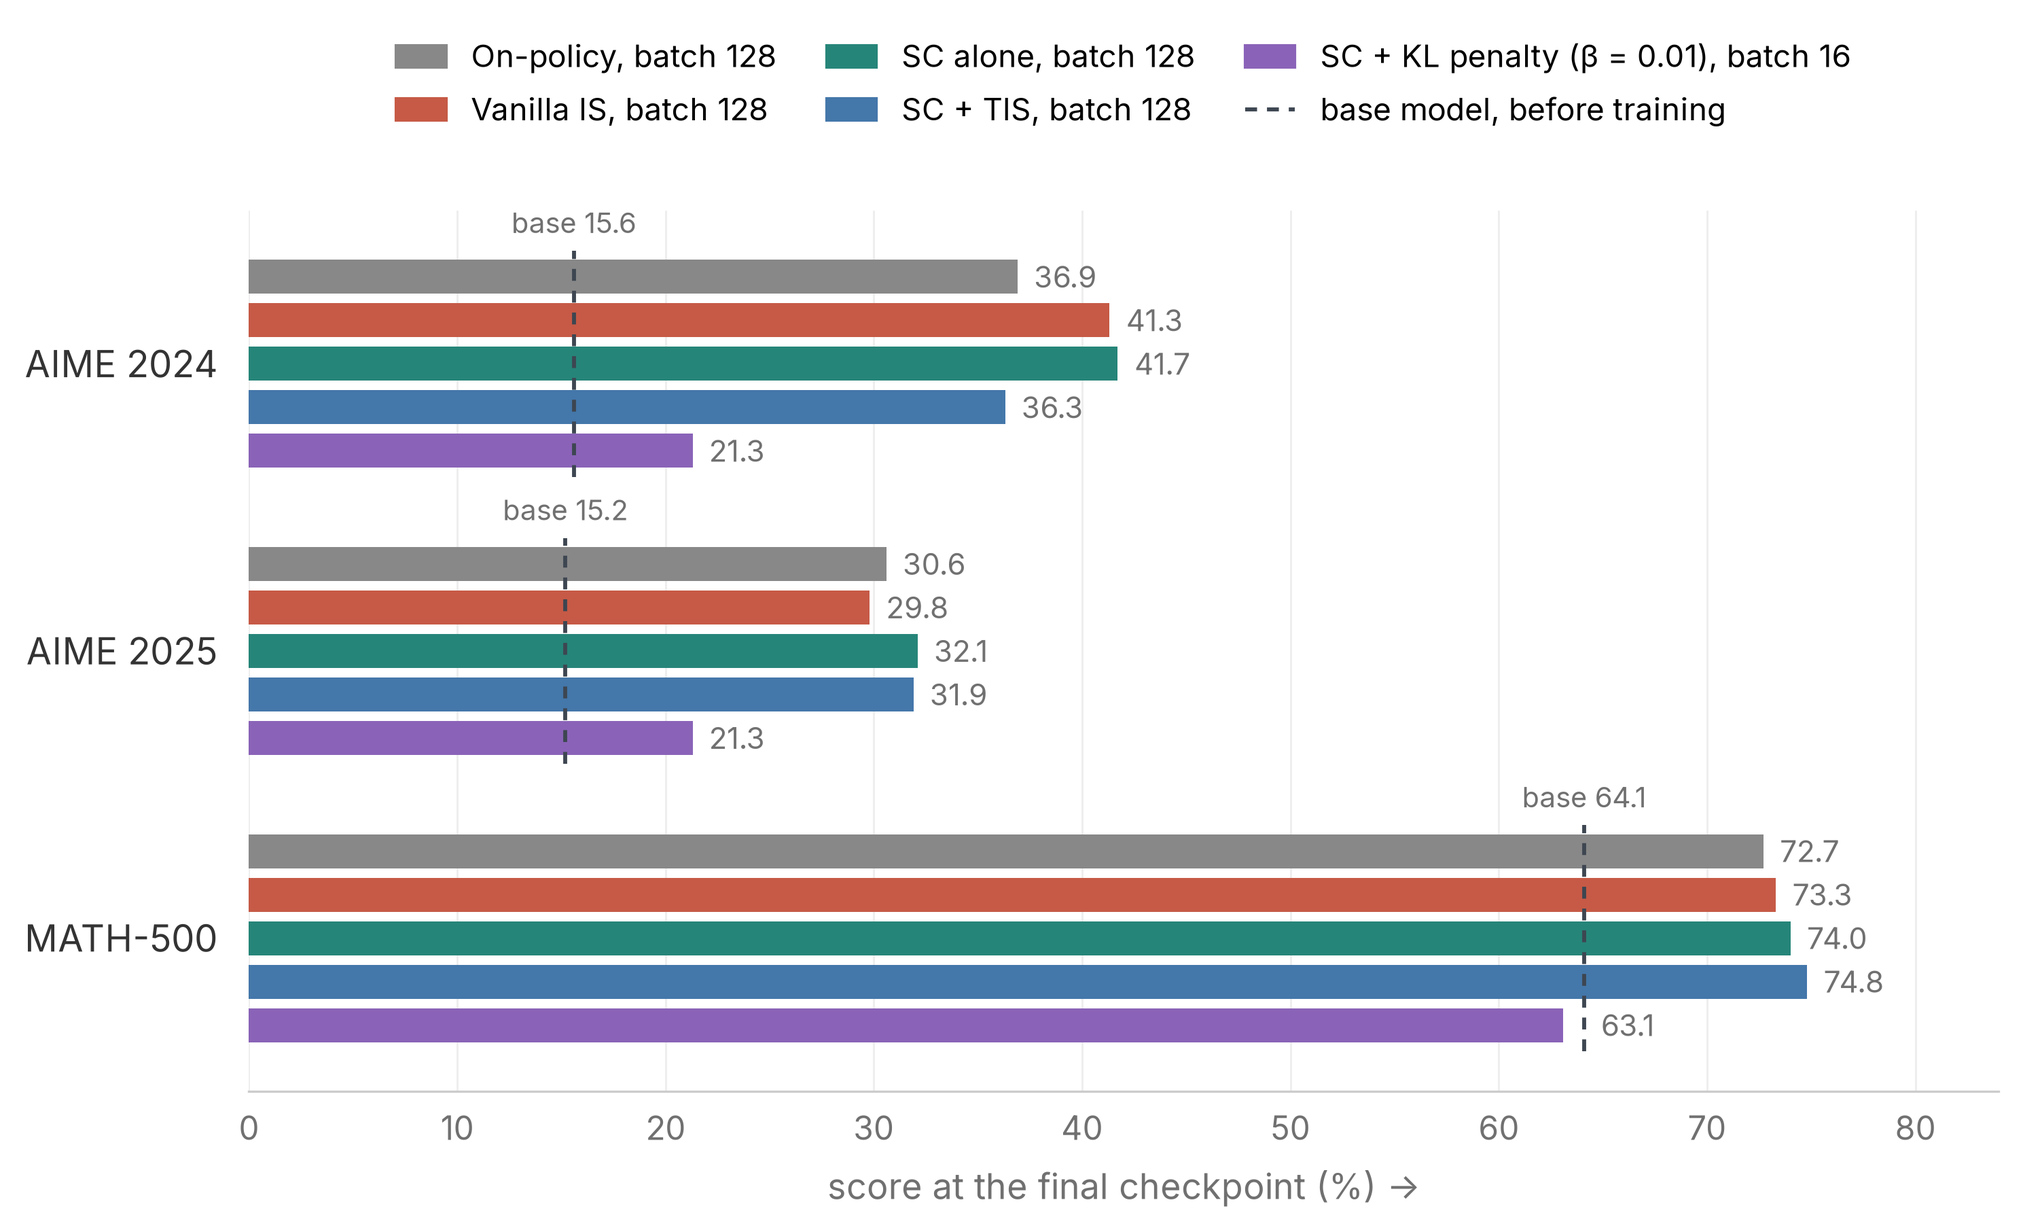
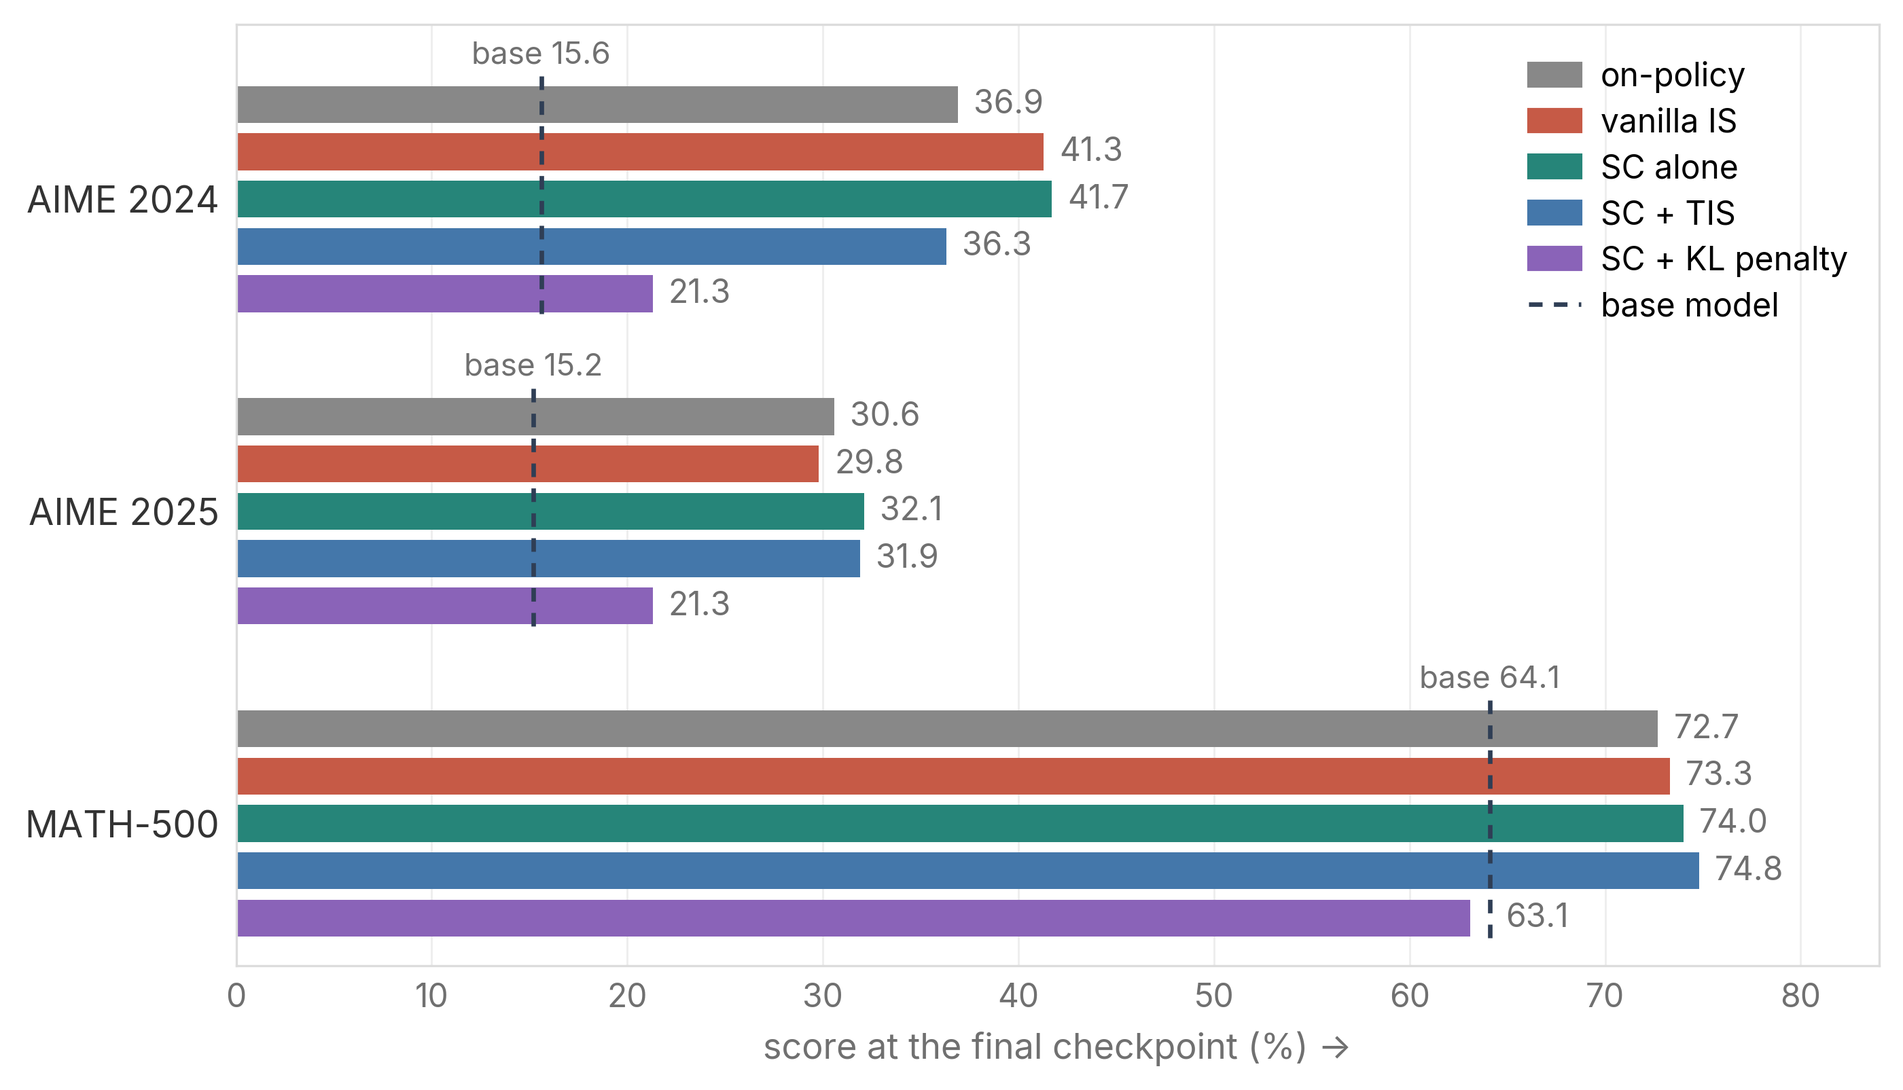
sc-drift-and-distance: Figures 5-16 redrawn in one style, captions simplified

diff --git a/sc-drift-and-distance/index.html b/sc-drift-and-distance/index.html
@@ -182,7 +182,7 @@ html[data-theme=dark] .body figure img{filter:invert(.92) hue-rotate(180deg)}
 </details>
 <h3 id="sec-2-2">2.2 Large batches: SC alone keeps up with on-policy training</h3>
 <p>Batch 64 was small enough for vanilla IS to collapse. We now raise the batch to 512 at the same staleness and ask whether that keeps all three methods stable (<a class="figref" href="#fig-5">Figure 5</a>).</p>
-<figure id="fig-5"><img src="figs/fig05_batch64_vs_512_v3.png?v=003f17c372" alt="Figure 5"><figcaption><b>Figure 5. Vanilla IS, SC alone, and SC + TIS at batch 64 and batch 512.</b> 0.8B on GSM8K, staleness 15. Left two panels: training reward. Batch 512 sees 8× more samples, so we compare stability only. Right: median of each mini-batch's largest ratio \(p/q\), grouped by its KL to the sampler.</figcaption></figure>
+<figure id="fig-5"><img src="figs/fig05_batch64_vs_512_v3.png?v=b52d30802d" alt="Figure 5"><figcaption><b>Figure 5. Vanilla IS, SC alone, and SC + TIS at batch 64 and batch 512.</b> 0.8B on GSM8K, staleness 15. Left two panels: training reward. Right: median of each mini-batch's largest ratio \(p/q\), grouped by its KL to the sampler.</figcaption></figure>
 <p>The left two panels of <a class="figref" href="#fig-5">Figure 5</a> show that a larger batch stabilizes all three methods. At batch 512, they all keep up with on-policy to the end, while at batch 64 the curves are noisy and vanilla IS collapses. The next subsection shows the same pattern on 4B at batch 128.</p>
 <p>The larger batch works by shrinking the distance. With less noise per step, the trainer does not move away from the sampler by chance. An 8× larger batch lowers the median KL about 8×, and truncation almost never triggers. <a class="secref" href="#sec-3">Section 3</a> explains why the drop is so close to 8×.</p>
 <p><a class="figref" href="#fig-6">Figure 6</a> shows that a larger batch helps only once drift is removed. Without correction, the KL runs away within the first rollout at batch 512 just as at batch 64. Drift pushes every step in the same direction, and a larger batch averages away only random noise. With SC, the KL stays small at both, and batch 512 ends the rollout at about half the KL of batch 64.</p>
@@ -191,10 +191,10 @@ html[data-theme=dark] .body figure img{filter:invert(.92) hue-rotate(180deg)}
 <p>Next we move to the opposite regime, with older data and smaller batches. Unlike vanilla IS, SC does not multiply the gradient by importance weights, so a single extreme weight cannot break it. It can still fail when the trainer moves far. We run SC alone at staleness 63 (64 mini-batches per rollout) with batches of 32, 64, and 512.</p>
 <figure id="fig-7"><img src="figs/fig07_sc_alone_staleness63_v4.png?v=30c6723eaf" alt="Figure 7"><figcaption><b>Figure 7. SC alone at three batch sizes.</b> 0.8B on GSM8K, staleness 63, batch 32, 64, and 512. Left: training reward. Right: the largest KL in each rollout (log scale).</figcaption></figure>
 <p>The left panel of <a class="figref" href="#fig-7">Figure 7</a> shows that SC alone keeps up with on-policy at batch 512 but breaks at smaller batches. Batch 32 collapses at step 448. Batch 64 trains to the end but finishes 14 points below its best, and a second batch-64 seed, not shown, collapses in its first rollout. In the right panel, the smaller the batch, the higher the largest KL in each rollout. We repeat the test on 4B with DAPO-Math-17k at staleness 15 and also compare the three methods.</p>
-<figure id="fig-8"><img src="figs/fig13_qwen4b_dapo.png?v=434394a213" alt="Figure 8"><figcaption><b>Figure 8. Vanilla IS, SC alone, and SC + TIS at batch 16 and batch 128.</b> 4B on DAPO-Math-17k, staleness 15, learning rate 0.033. Left: batch 16, where all three collapse. Purple: SC + KL penalty (<a class="secref" href="#sec-4-3">Section 4.3</a>). Right: batch 128, where all three keep up with on-policy.</figcaption></figure>
+<figure id="fig-8"><img src="figs/fig13_qwen4b_dapo.png?v=9494c23661" alt="Figure 8"><figcaption><b>Figure 8. Vanilla IS, SC alone, and SC + TIS at batch 16 and batch 128.</b> 4B on DAPO-Math-17k, staleness 15, learning rate 0.033. Left: batch 16. Purple: SC + KL penalty with β = 0.01 (<a class="secref" href="#sec-4-3">Section 4.3</a>). Right: batch 128. On-policy runs 160 steps.</figcaption></figure>
 <p>The 4B runs in <a class="figref" href="#fig-8">Figure 8</a> fail the same way at small batch. At batch 16, all three methods collapse, and each collapse starts with a sudden spike in the KL to the sampler. At batch 128, all three keep up with on-policy and roughly double the base model’s AIME scores. The differences among them are within sampling error (see the evaluation below). In both models, every failure comes with a large KL to the sampler, and a larger batch keeps that KL small. Why does the batch matter so much, and does it always help?</p>
 <details><summary>4B evaluation</summary>
-<figure id="fig-9"><img src="figs/fig08_4b_eval.png?v=1f5919d8a0" alt="Figure 9"><figcaption><b>Figure 9. Evaluation scores at the final checkpoint.</b> 4B on DAPO-Math-17k, staleness 15, batch 128 unless noted. Dashed lines: the base model. Each AIME score averages 16 samples per problem, with a sampling error of about 1.3 points. On-policy runs 160 steps and the others 320. The batch-16 runs without a KL penalty collapsed and are not evaluated.</figcaption></figure>
+<figure id="fig-9"><img src="figs/fig08_4b_eval.png?v=ce86ea0fb5" alt="Figure 9"><figcaption><b>Figure 9. Evaluation scores at the final checkpoint.</b> 4B on DAPO-Math-17k, staleness 15, batch 128 unless noted. SC + KL penalty: batch 16, β = 0.01. Each AIME score averages 16 samples per problem, with a sampling error of about 1.3 points. On-policy runs 160 steps and the others 320. The batch-16 runs without a KL penalty collapsed and are not evaluated.</figcaption></figure>
 </details>
 <h2 id="3-why-sc-fails-how-the-trainer-moves-away-from-t"><span id="sec-3"></span>3. Why SC fails: how the trainer moves away from the sampler</h2>
 <p>The answer is that the distance has two sources. Gradient noise moves the trainer in a random direction at each step, and a larger batch averages it away. The learning signal moves it in the same direction at every step, so on stale data it keeps adding up. This accumulation is simply the learning process at work, staying present at any batch size.</p>
@@ -212,13 +212,13 @@ html[data-theme=dark] .body figure img{filter:invert(.92) hue-rotate(180deg)}
 <table><thead><tr><th>Setting</th><th>Noise term</th><th>Signal term</th><th>Cost</th></tr></thead><tbody><tr><td>Larger batch \(B\)</td><td>✅ shrinks as \(1/B\)</td><td>❌ unchanged</td><td>more samples per step</td></tr><tr><td>Lower learning rate \(\eta\)</td><td>✅ shrinks as \(\eta^2\)</td><td>✅ shrinks as \(\eta^2\)</td><td>less learning per step</td></tr><tr><td>Less staleness \(k\)</td><td>✅ shrinks as \(k\)</td><td>✅ shrinks as \(k^2\)</td><td>more frequent sampler syncs</td></tr></tbody></table>
 <p>Late in a rollout the signal term dominates, so less staleness helps most and a larger batch least. The two terms are also not equally useful. Distance from noise brings no learning, while distance from the signal comes from learning itself. A larger batch removes only the first, and the other two settings shrink both.</p>
 <p><b>Testing the formula.</b> The table above says a larger batch shrinks only the noise term, so we can test it by changing the batch alone. If the KL were all noise, an 8× larger batch would cut it 8×. If it were all signal, the larger batch would not change it. We run one rollout at batch 128 and one at batch 1024, and <a class="figref" href="#fig-10">Figure 10</a> plots the ratio of their KLs at every step.</p>
-<figure id="fig-10"><img src="figs/fig05_batch_ratio.png?v=00edbd51b1" alt="Figure 10"><figcaption><b>Figure 10. How much a larger batch lowers the KL at each step.</b> 0.8B on GSM8K, staleness 31. Each point is the KL at batch 128 over the KL at batch 1024, over three seeds, each run twice. Dashed: all noise (8) and all signal (1).</figcaption></figure>
+<figure id="fig-10"><img src="figs/fig05_batch_ratio.png?v=3debdcf9cc" alt="Figure 10"><figcaption><b>Figure 10. KL at batch 128 over KL at batch 1024, at each step of the rollout.</b> 0.8B on GSM8K, staleness 31, SC alone, three seeds, each run twice.</figcaption></figure>
 <p>The ratio starts near 6, so early in a rollout most of the KL is noise. By the last step it falls below 2, because the signal has piled up and a larger batch cannot remove it. The two-term formula, fitted on other runs, predicts the same decline (orange dashed curve). A larger batch therefore helps least on the stalest mini-batches, where the KL is largest and SC breaks.</p>
 <h2 id="4-what-helps-when-sc-fails"><span id="sec-4"></span>4. What helps when SC fails</h2>
 <p>SC alone breaks once the trainer moves far from the sampler, that is, once the largest KL in a rollout grows large. We compare three ways to rescue it: changing the settings that set this distance, adding importance weights, and adding a KL penalty that pulls the trainer back.</p>
 <h3 id="sec-4-1">4.1 Training settings: control the distance at the source</h3>
 <p>The most direct fix is to change the settings that set the distance. We start from batch 32 at staleness 63, where SC collapses, and change one setting at a time (<a class="figref" href="#fig-11">Figure 11</a>). For staleness we start from batch 64, the smallest batch we ran at both staleness 63 and 15.</p>
-<figure id="fig-11"><img src="figs/fig14_sc_rescue.png?v=79f11872bd" alt="Figure 11"><figcaption><b>Figure 11. SC alone, rescued by changing one setting.</b> 0.8B on GSM8K, training reward. Each panel starts from a setting where SC alone collapses and changes one setting, after which it trains to the end.</figcaption></figure>
+<figure id="fig-11"><img src="figs/fig14_sc_rescue.png?v=2f85e34a2f" alt="Figure 11"><figcaption><b>Figure 11. SC alone, rescued by changing one setting.</b> 0.8B on GSM8K, training reward. Left: staleness 63, learning rate 0.03. Middle: staleness 63, batch 32. Right: batch 64, learning rate 0.03.</figcaption></figure>
 <p>A larger batch, a lower learning rate, and less staleness each rescue SC, by different amounts:</p>
 <ul><li><b>Larger batch.</b> Going from batch 32 to 512 only halves the first-rollout KL, because about half of it is signal. In later rollouts, when the KL is mostly noise, it helps much more.</li><li><b>Lower learning rate.</b> Cutting it to a third lowers the KL by more than an order of magnitude, whatever the KL is made of.</li><li><b>Less staleness.</b> It is the main fix for very old data. Going from 63 to 15 at batch 64 cuts the KL by more than the ratio squared (about 18×), and SC trains to the end (<a class="figref" href="#fig-11">Figure 11</a>, right).</li></ul>
 <p>The two-term formula predicts these reductions well while the trainer stays close to the sampler. Late in a rollout at learning rate 0.03, the KL grows faster than the formula allows, so a lower learning rate or less staleness helps even more than predicted.</p>
@@ -227,14 +227,14 @@ html[data-theme=dark] .body figure img{filter:invert(.92) hue-rotate(180deg)}
 <p>Another option is importance weights, which correct the reweighting error that SC leaves. Vanilla IS removes drift in expectation even without SC (the starred run in <a class="figref" href="#fig-4">Figure 4</a>). Truncating the weights brings drift back, unless SC centers with the same truncated weights, as ours does. Yet neither rescues SC where it fails, and large and small weights show why.</p>
 <p><b>Large weights.</b> A token gets a large weight when the trainer gives it much more probability than the sampler did. Such tokens appear less often in the sampler's data than the trainer needs, and their large weights restore the balance but make the gradient noisy. Their variance grows with \(\mathbb{E}_q[w^2]\) and falls as \(1/B\), which is one reason vanilla IS survives at batch 512 but not at batch 64.</p>
 <p>A small KL does not keep these weights safe. In <a class="figref" href="#fig-12">Figure 12</a>, an fp8 sampler with a bf16 trainer adds a small rounding difference to every probability, and the KL stays small. Without staleness, vanilla IS still tracks on-policy, but at staleness 15 a single weight jumps to nearly 20,000 (right) and the run collapses, while SC alone and SC + TIS train to the end (left).</p>
-<figure id="fig-12"><img src="figs/fig08_fp8_sampler.png?v=6deb7e204a" alt="Figure 12"><figcaption><b>Figure 12. Vanilla IS, SC alone, and SC + TIS with an fp8 sampler.</b> 0.8B on GSM8K, staleness 15 unless noted, batch 512. Left: training reward. Right: the largest importance weight in each rollout. The sampler runs weights and activations in fp8 and keeps the KV cache in bf16. Storing the KV cache in fp8 as well changes little, because only 6 of the model’s 24 layers use attention.</figcaption></figure>
+<figure id="fig-12"><img src="figs/fig08_fp8_sampler.png?v=1c1456c44c" alt="Figure 12"><figcaption><b>Figure 12. Vanilla IS, SC alone, and SC + TIS with an fp8 sampler.</b> 0.8B on GSM8K, staleness 15 unless noted, batch 512. Left: training reward. Right: the largest importance weight in each rollout, which SC alone only logs. The sampler runs weights and activations in fp8 and keeps the KV cache in bf16. Storing the KV cache in fp8 as well changes little, because only 6 of the model’s 24 layers use attention.</figcaption></figure>
 <p><a class="figref" href="#fig-13">Figure 13</a> shows the same at staleness 63 and batch 512. SC alone moves about 10× further from the sampler than vanilla IS in the first rollout (left), yet SC trains to the end and vanilla IS collapses in both seeds (right).</p>
-<figure id="fig-13"><img src="figs/fig09_staleness63_vanilla_is.png?v=cf4b8284b3" alt="Figure 13"><figcaption><b>Figure 13. SC alone against vanilla IS.</b> 0.8B on GSM8K, staleness 63, batch 512, two seeds each. Left: KL to the sampler in the first rollout. Right: training reward.</figcaption></figure>
+<figure id="fig-13"><img src="figs/fig09_staleness63_vanilla_is.png?v=25e39c4422" alt="Figure 13"><figcaption><b>Figure 13. SC alone against vanilla IS.</b> 0.8B on GSM8K, staleness 63, batch 512, two seeds each. Left: KL to the sampler in the first rollout. Right: training reward.</figcaption></figure>
 <p><b>Small weights.</b> Tokens the trainer already gives less probability than the sampler have \(w &lt; 1\). When IS pushes such a token down, its weight shrinks and the push weakens, while SC keeps pushing at full strength. <a class="figref" href="#fig-14">Figure 14</a> shows the result in the first rollout at staleness 63. SC alone ends with several times more tokens below \(w = 0.5\) than vanilla IS (right). Adding just this weakening to SC, by multiplying the terms with negative advantage by \(\min(1, w)\), cuts the KL more than tenfold (left).</p>
-<figure id="fig-14"><img src="figs/fig10_low_end_first_rollout.png?v=7215a247b6" alt="Figure 14"><figcaption><b>Figure 14. SC alone, SC + \(\min(1, w)\), and vanilla IS in the first rollout.</b> 0.8B on GSM8K, staleness 63, batch 512, two seeds each. Left: KL added within the rollout. Right: share of tokens with \(w &lt; 0.5\) or \(w &gt; 2\) at its end.</figcaption></figure>
+<figure id="fig-14"><img src="figs/fig10_low_end_first_rollout.png?v=9326ec242c" alt="Figure 14"><figcaption><b>Figure 14. SC alone, SC + \(\min(1, w)\), and vanilla IS in the first rollout.</b> 0.8B on GSM8K, staleness 63, batch 512, two seeds each. Left: KL added within the rollout. Right: share of tokens with \(w &lt; 0.5\) or \(w &gt; 2\) at its end.</figcaption></figure>
 <p><b>What TIS keeps and what it gives up.</b> TIS caps only the large weights, so it keeps the effect of small weights and removes the risk from large ones. But capping also removes the correction that large weights carry, and the sudden KL spikes that start each collapse come from that side. Small weights slow the steady move away from the sampler but not these spikes, so SC + TIS collapses in the same small-batch settings as SC alone, and so does SC + \(\min(1, w)\) (<a class="figref" href="#fig-15">Figure 15</a>).</p>
 <details><summary>SC + \(\min(1, w)\) over whole runs</summary>
-<figure id="fig-15"><img src="figs/fig11_low_end_runs.png?v=6d62d2a17c" alt="Figure 15"><figcaption><b>Figure 15. SC alone and SC + \(\min(1, w)\) over whole runs.</b> 0.8B on GSM8K, staleness 63, seed 1. Training reward.</figcaption></figure>
+<figure id="fig-15"><img src="figs/fig11_low_end_runs.png?v=bb4b93003e" alt="Figure 15"><figcaption><b>Figure 15. SC alone and SC + \(\min(1, w)\) over whole runs.</b> 0.8B on GSM8K, staleness 63, seed 1. Training reward.</figcaption></figure>
 </details>
 <p>Large weights can break IS even at a small KL, and small weights can shrink the KL without preventing collapse. Neither replaces fixing the source.</p>
 <h3 id="sec-4-3">4.3 A KL penalty: stability at a cost</h3>
@@ -245,7 +245,7 @@ html[data-theme=dark] .body figure img{filter:invert(.92) hue-rotate(180deg)}
 <p>Along a direction of curvature \(\lambda\), each step shrinks the existing displacement by a factor \(1 - \eta\beta\lambda\). After about \(1/(\eta\beta\lambda)\) steps, neither the signal nor the noise term grows any further, so the penalty limits how far the trainer can move within a rollout. It also means that after \(k\) steps, mini-batch \(j\) counts with weight \((1 - \eta\beta\lambda)^{k-j}\), so the older a mini-batch is, the less it counts. A lower learning rate weights every mini-batch equally, and for the same learning signal, equal weights leave the least noise.</p>
 </details>
 <p><a class="figref" href="#fig-16">Figure 16</a> compares penalties of different strengths with simply cutting the learning rate to a third, at batch 32 and staleness 63, where SC alone collapses. Since the KL grows with the square of the learning rate, a third of the step should cut it about ninefold. The largest KL in a rollout falls about twentyfold, and with the lower learning rate SC trains to the end.</p>
-<figure id="fig-16"><img src="figs/fig16_kl_penalty_v5.png?v=4ab1b9736f" alt="Figure 16"><figcaption><b>Figure 16. KL penalties against a lower learning rate.</b> 0.8B on GSM8K, staleness 63, batch 32, SC on. Left: end reward of every penalty. Purple: constant \(\beta\). Orange: \(\beta\) decaying with token age. Hatched: the exact KL over the sampler's top-32 tokens instead of a one-token estimate. Dots: individual seeds. Middle and right: training reward and largest KL for SC alone, the lower learning rate, and the weakest and strongest constant penalties.</figcaption></figure>
+<figure id="fig-16"><img src="figs/fig16_kl_penalty_v5.png?v=c57b26bfa3" alt="Figure 16"><figcaption><b>Figure 16. KL penalties against a lower learning rate.</b> 0.8B on GSM8K, staleness 63, batch 32, SC on. Left: end reward of every penalty, the mean of the last three rollouts. Purple: constant \(\beta\). β 0.01 is the Tinker default. Orange: \(\beta\) decaying with token age. Hatched: the exact KL over the sampler's top-32 tokens instead of a one-token estimate. Dots: individual seeds. Middle and right: training reward and largest KL for SC alone, the lower learning rate, and the weakest and strongest constant penalties.</figcaption></figure>
 <p><b>Every penalty stops the collapse, but only a tuned one matches the lower learning rate.</b> Tinker's default (\(\beta = 0.01\)) is too weak. It leaves the KL high and ends 6 points lower. A strong penalty (\(\beta = 0.3\)) keeps the KL lowest, yet ends 10 points lower, because it also holds back learning. Only \(\beta = 0.075\), in between, matches the lower learning rate.</p>
 <p><b>A penalty that decays with token age does no better.</b> We also ran the schedule from <a class="cite" href="#ref-zhang2026kl" title="Zhang, Y. (2026). Score Function Centering: Why a Stale Rollout Does Not Have to Be Importance Sampled. Blog post. normaluhr.github.io/en/p/score-function-centering-kl">Zhang (2026)</a>, which weakens the penalty as \(\beta_0/\sqrt{\text{age}}\) (orange in <a class="figref" href="#fig-16">Figure 16</a>). It helps over a constant penalty of the same starting strength, and the best schedule, \(\beta_0 = 0.3\) with the exact KL, only matches the lower learning rate.</p>
 <details><summary>Why a lower learning rate matches a tuned penalty</summary>
